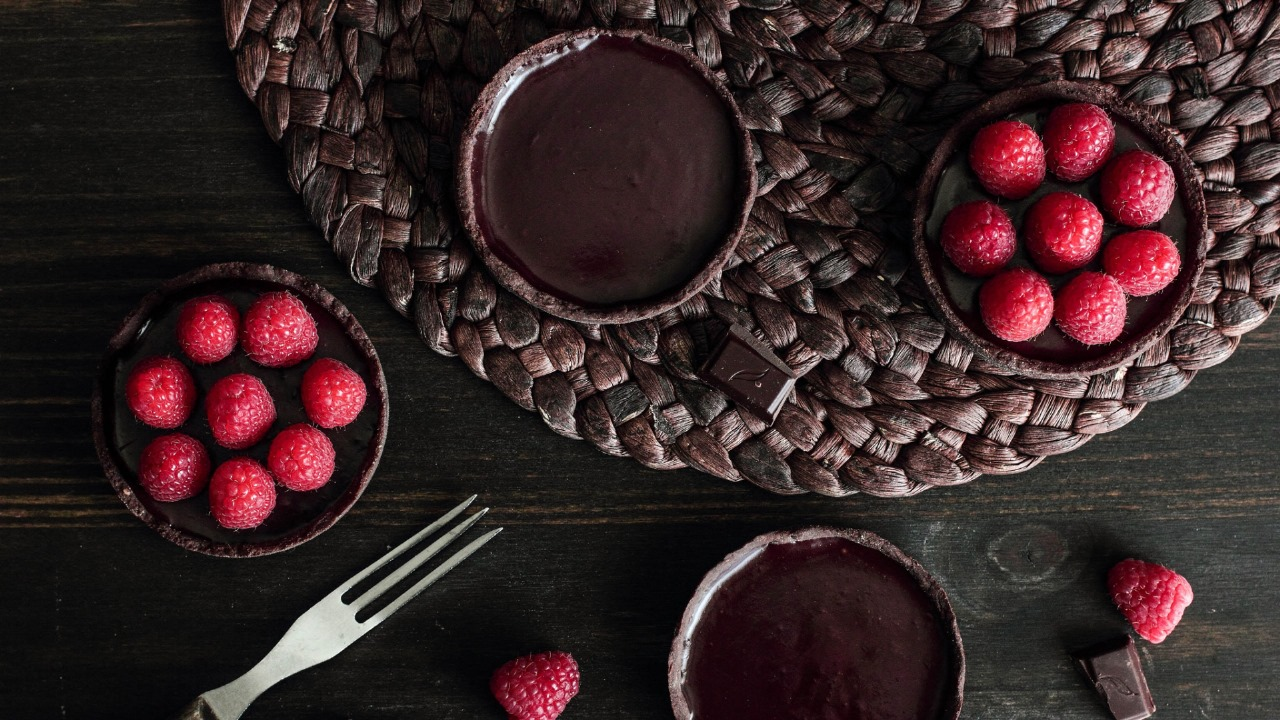
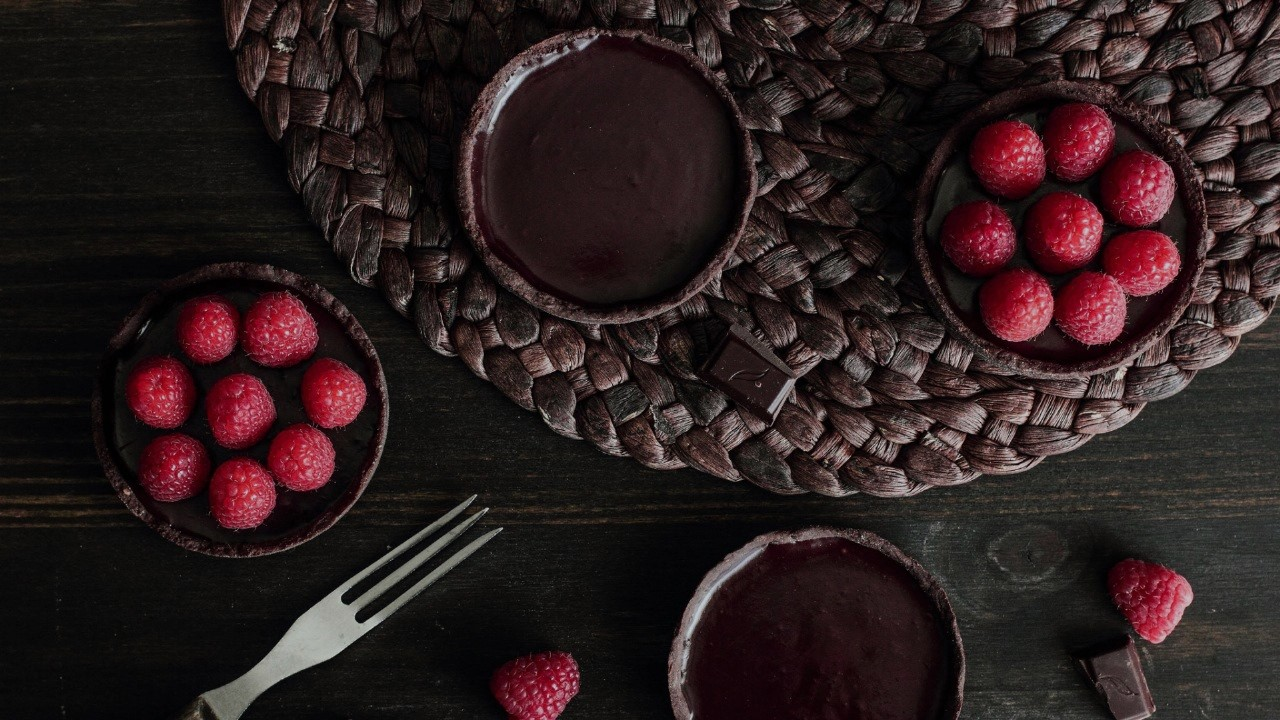
lol

diff --git a/home/static/css/home.css b/home/static/css/home.css
@@ -36,6 +36,7 @@ body {
 .imbanner {
     margin-top: 0;
     background-image: url("/static/imgs/banner6.jpg");
+    /* filter: grayscale(1  0%); */
     background-repeat: no-repeat;
     background-size: cover;
     background-position: center;
@@ -124,23 +125,23 @@ body {
     margin-top: 0;
     padding-top: 10px;
     text-transform: uppercase;
-    font-weight: 500;
+    font-weight: 900;
     letter-spacing: 3px;
     text-shadow: 1px 1px 1px #0a0a0a;
 }
 
 .cover h2 {
-    color: #b61c1c;
+    color: #b36565;
     font-family: Garamond;
     font-style: italic;
-    text-decoration: underline; 
+    letter-spacing: 2px;
     font-size: 30px;
     text-align: center;
     margin-top: 0;
     padding-top: 40px;
     text-transform: lowercase;
-    font-weight: 500;
-    letter-spacing: 3px;
+    font-weight: 900;
+    letter-spacing: 4px;
     text-shadow: 1px 1px 1px #000000;
 }
 
@@ -275,20 +276,22 @@ ul {
 }
 
 .text-box h2 {
+    color: rgb(169, 98, 98);
     margin: 0 0 10px;
     font-size: 2.5em;
-    font-family: Garamond;
+    font-family: Footlight MT Light;
     font-style: italic;
-    text-transform: lowercase;
-    font-weight: 500;
+    /* text-transform: lowercase;  */
+    font-weight: 900;
     letter-spacing: 2px;
     text-shadow: 2px 2px 4px #000000;
 }
 
 .text-box p {
-    margin: 0 0 10px;
-    font-size: 1em;
-    font-weight: 100;
+    margin:  20px 0;
+    word-spacing: 2px;
+    font-size: 1.2em;
+    font-weight: 700;
     text-shadow: 2px 2px 4px #000000;
     color: #faf7f7;
 

diff --git a/home/static/css/login.css b/home/static/css/login.css
@@ -5,7 +5,7 @@
 body{
     background: #000;
     color: white;
-        background-image: url("/static/imgs/banner6.jpg");
+        background-image: url("/static/imgs/loginbanner4.jpg");
     background-repeat: no-repeat;
     background-size: cover;
     background-position: center;
@@ -19,9 +19,13 @@ body{
 }
 
 .login-container {
+    position: relative;
+    left: 150px;
+    top: 5vh;
+    opacity: .9;
     margin: 0 auto;
     display: flex;
-    justify-content: center;
+    justify-content: flex-end;
     align-items: center;
     height: 90vh;
     width: 100vh;
@@ -38,7 +42,7 @@ body{
 }
 
 .title {
-    color: #f25774;
+    color: wheat;
     margin: 2rem 0;
     font-size: 2.2rem;
 }
@@ -66,7 +70,7 @@ body{
 }
 
 .username, .password, .email {
-    border-bottom: 1px solid #e2153b;
+    border-bottom: 1px solid #9b5a5a;
     transition: all 400ms;
 }
 
@@ -81,7 +85,7 @@ body{
     height: 3rem;
     width: 20rem;
     margin-top: 3rem;
-    background-color: #e2153b;
+    background-color: rgb(133, 82, 82);
     border-radius: 0.5rem;
     border: none;
     font-size: 1.2rem;
@@ -95,9 +99,9 @@ body{
 }
 
 form a{
-    color: #f25774;
-    text-decoration: none;
-    font-size: 1.2rem;
+    color: wheat;
+    /* text-decoration: none; */
+    font-size: 1.6rem;
     margin-top: 1rem;
     transition: all 400ms;
 }

diff --git a/home/static/css/adminmenu.css b/home/static/css/adminmenu.css
@@ -7,25 +7,25 @@
     margin: 0;
     background-color: #000000;
     font-family: garamond;
-    background-image: url("/static/imgs/cakes.jpg");
+    background-image: url("/static/imgs/adminmenu1.jpg");
     background-size: cover;
     background-repeat: no-repeat;
     background-position: center;
-    
 }
 
 .form-container {
     background-color: #000000;
-    background-image: url("/static/imgs/desserts.jpg");
-    color: #000000;
+    /* background-image: url("/static/imgs/desserts.jpg"); */
+    color: #ff0000;
     border-radius: 10px;
     box-shadow: 0 0 10px rgb(40, 28, 28);
     padding: 50px;
     width: 400px;
+    opacity: 0.7;
     max-width: 100%;
     text-align: center;
-    border: 2px dashed #333;
-    border-right: 4px solid #555;
+    border: 4px dashed gray;
+    /* border-right: 4px solid #555;     */
     padding: 40px;
     /* Add padding to the form */
 }
@@ -45,7 +45,7 @@ label {
     font-weight: bold;
     display: block;
     margin-bottom: 5px;
-    color: #000000;
+    color: #fff5f5;
     cursor: none;
 }
 
@@ -83,5 +83,3 @@ body {
 button {
     cursor: none !important;
 }
-
-

diff --git a/home/static/css/menuitems.css b/home/static/css/menuitems.css
@@ -43,7 +43,7 @@ h2 {
 }
 
 #snacks-bgimg {
-    background-image: url(/static/imgs/snacks2.jpg);
+    background-image: url(/static/imgs/snacksbanner2.jpg);
     background-repeat: no-repeat;
     background-size: cover;
     background-position: center;
@@ -51,10 +51,10 @@ h2 {
 }
 
 #deserts-bgimg {
-    background-image: url(/static/imgs/desserts2.jpg);
+    background-image: url(/static/imgs/loginbanner2.jpg);
     background-repeat: no-repeat;
     background-size: cover;
-    background-position: center;
+    background-position: right;
     height: 25vh;
 }
 
@@ -165,7 +165,7 @@ body {
     margin: 0;
     padding: 0;
     background-color: #1F1B18;
-    color: #ff5d78;
+    color: #ffffff;
     cursor: none;
     font-family: 'Garamond', serif;
     font-size: 1.1rem;
@@ -217,8 +217,9 @@ body {
 .card-description {
     display: flex;
     justify-content: center;
+    font-size: 1rem;
     /* display: block; */
-    font-size: var(--small--font-size);
+    /* font-size: var(--small--font-size); */
     margin-bottom: .5rem;
     font-family: Garamond;
     font-style: italic;

diff --git a/home/static/css/cart.css b/home/static/css/cart.css
@@ -1,23 +1,23 @@
 
 
 body {
-    background: url("/static/imgs/beveragesbanner1.jpg") center / cover no-repeat ;
-    backdrop-filter: blur (1.17rem);
+    background: url("/static/imgs/cartemptybg3.jpg") center / cover no-repeat ;
     color: #000000;
     font-family: garamond;
     cursor: none;
 }
 
 
-h1 {
+ h1{
     text-align: center;
     margin-top: 20px;
-    margin-bottom: 60vh;    
-    color: #fff;
-    font-family: garamond;
+    margin-bottom: 80vh;    
+    color: rgb(179, 53, 72)   ;
+    font-family: Footlight MT Light;
     font-size: 40px;
     font-weight: bold;
 }
+
 
 td img {
     width: 100px;
@@ -103,7 +103,7 @@ td,
 th {
     border-collapse: collapse;
     padding: 1rem 2.8rem;
-    width: 100%;
+    /* width: 100%; */
 }
 
 

diff --git a/home/templates/home.html b/home/templates/home.html
@@ -19,8 +19,7 @@
         <div class="box">
             {% if request.session.user %}
             <h1>Welcome {{ request.session.user }}</h1>
-            {% else %}
-            <h1>Welcome to Munch Mosaic</h1>
+           
             {% endif %}
             <h1>Indulge in a Symphony of Flavors at Munch Mosaic</h1>
             <h3>Welcome to a Culinary Wonderland!</h3>
@@ -30,7 +29,7 @@
 
     <div class="banner">
         <div class="text-box">
-            <h2>Our Story</h2>
+            <h2>Our story</h2>
             <h1>Few words about us</h1>
 
             <p>From the first light of dawn to the quiet of twilight, Munch Mosaic is here to accompany you through your

diff --git a/home/templates/cart.html b/home/templates/cart.html
@@ -70,8 +70,9 @@
 
     {% else %}
     <center>
-        <h1 style="color: white;" class="empty-cart">Cart Hungry for Your Picks!</h1>
-    </center>
+        
+        <h1 class="empty-cart">Please Add Some Deliciousness!</h1>
+    </center><h4 class="empty-cart" style="color: rgb(83, 105, 123);">OOPS! Your Cart Is Empty</h4>
     {% endif %}
 
     <script>
